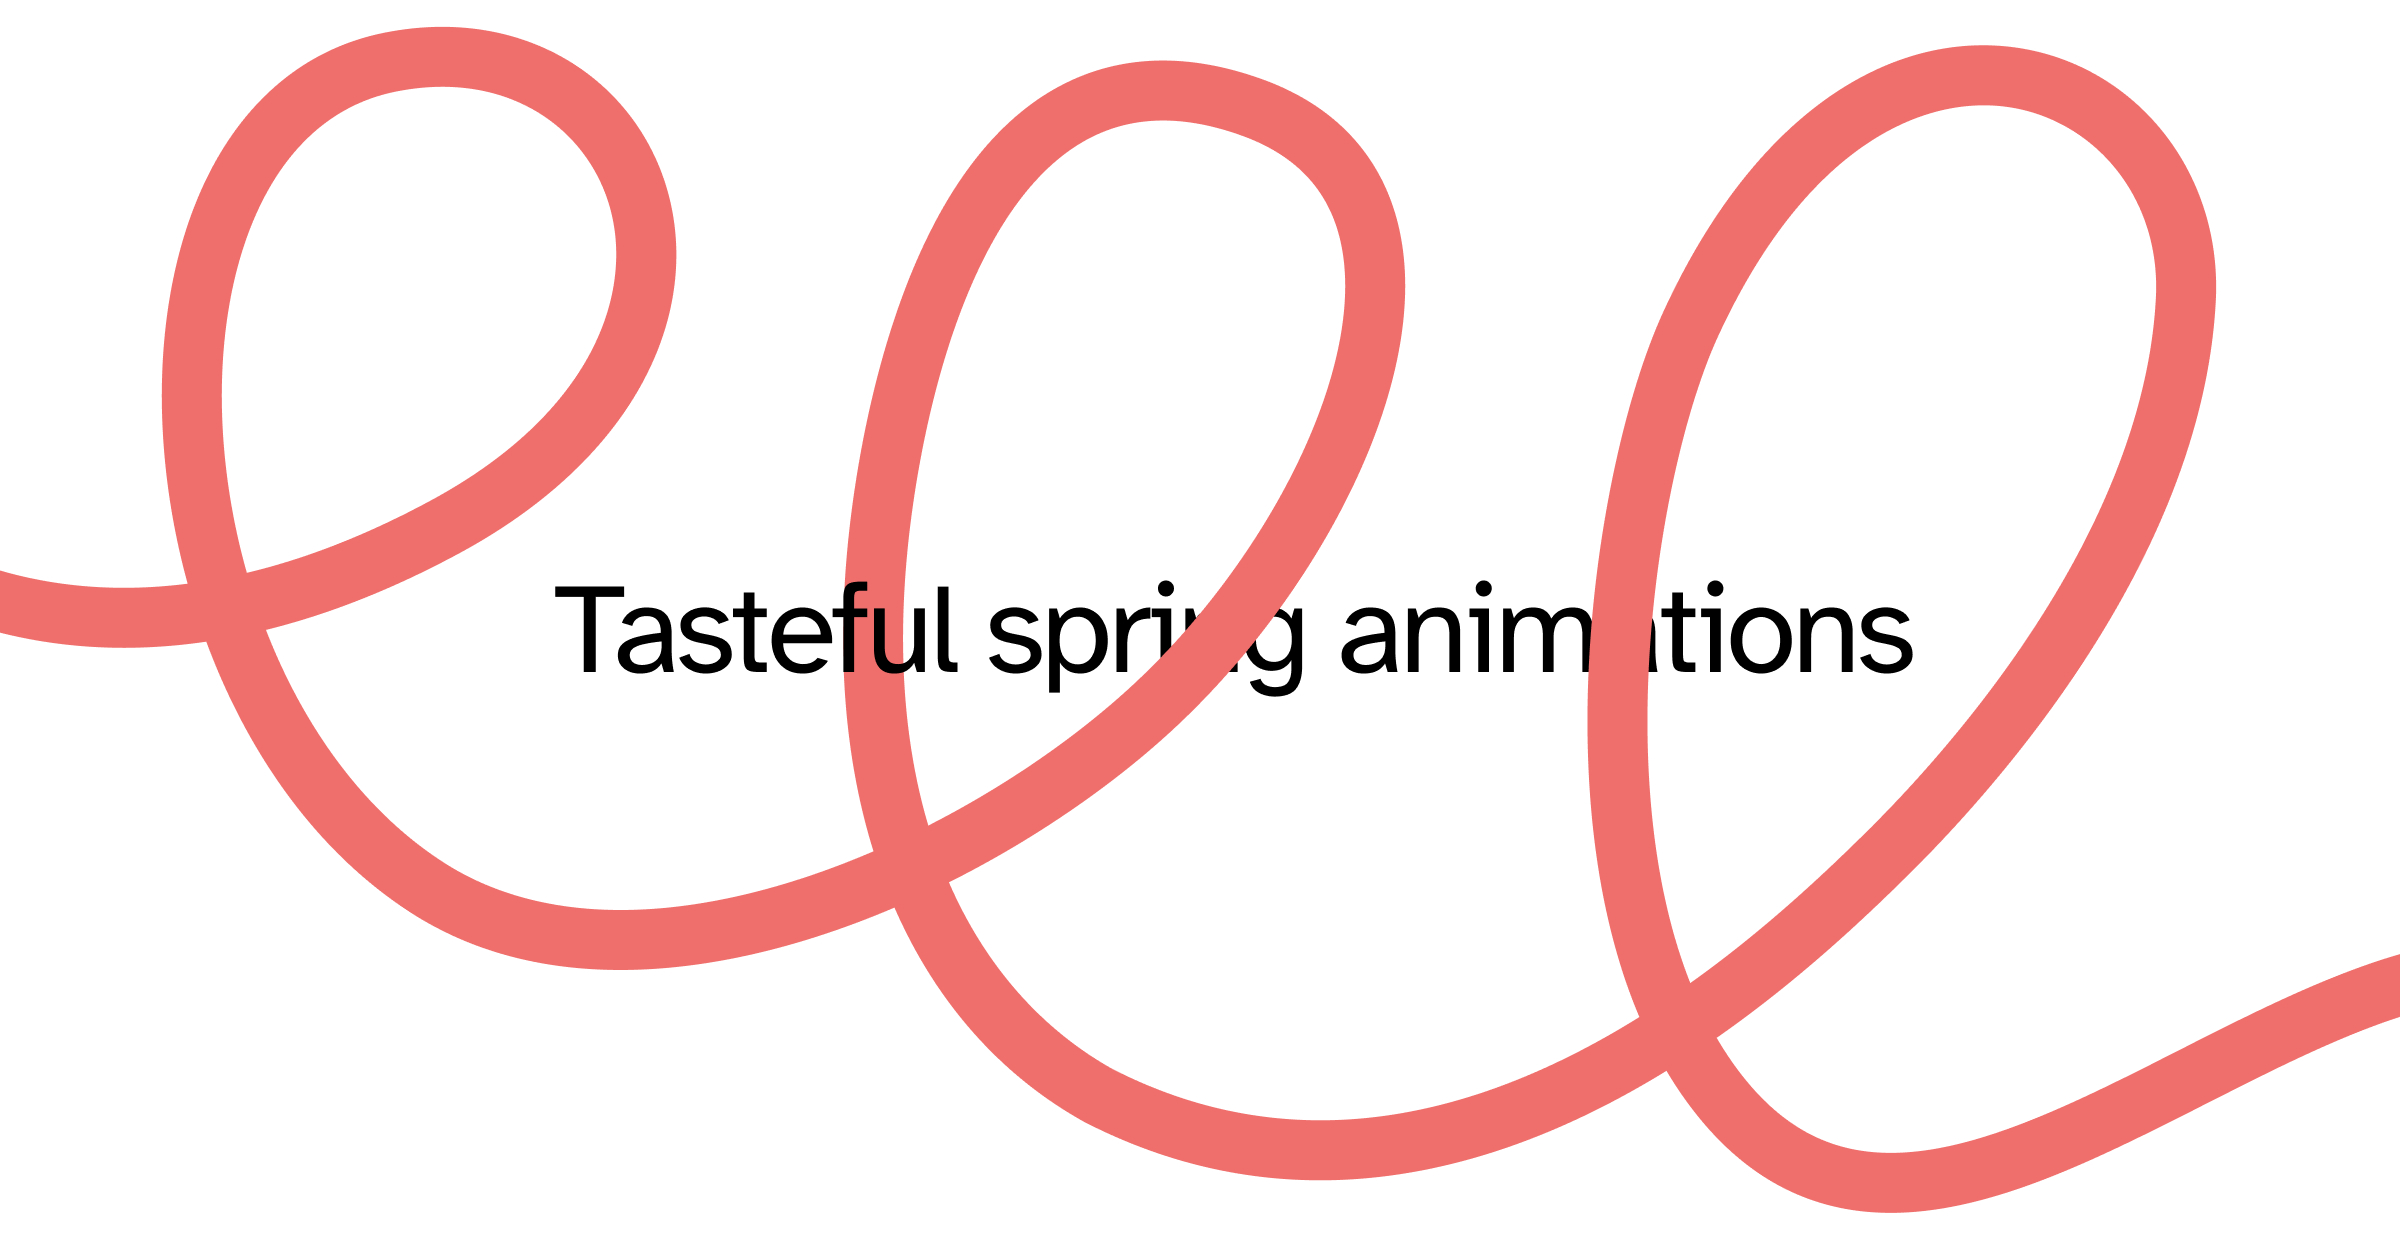
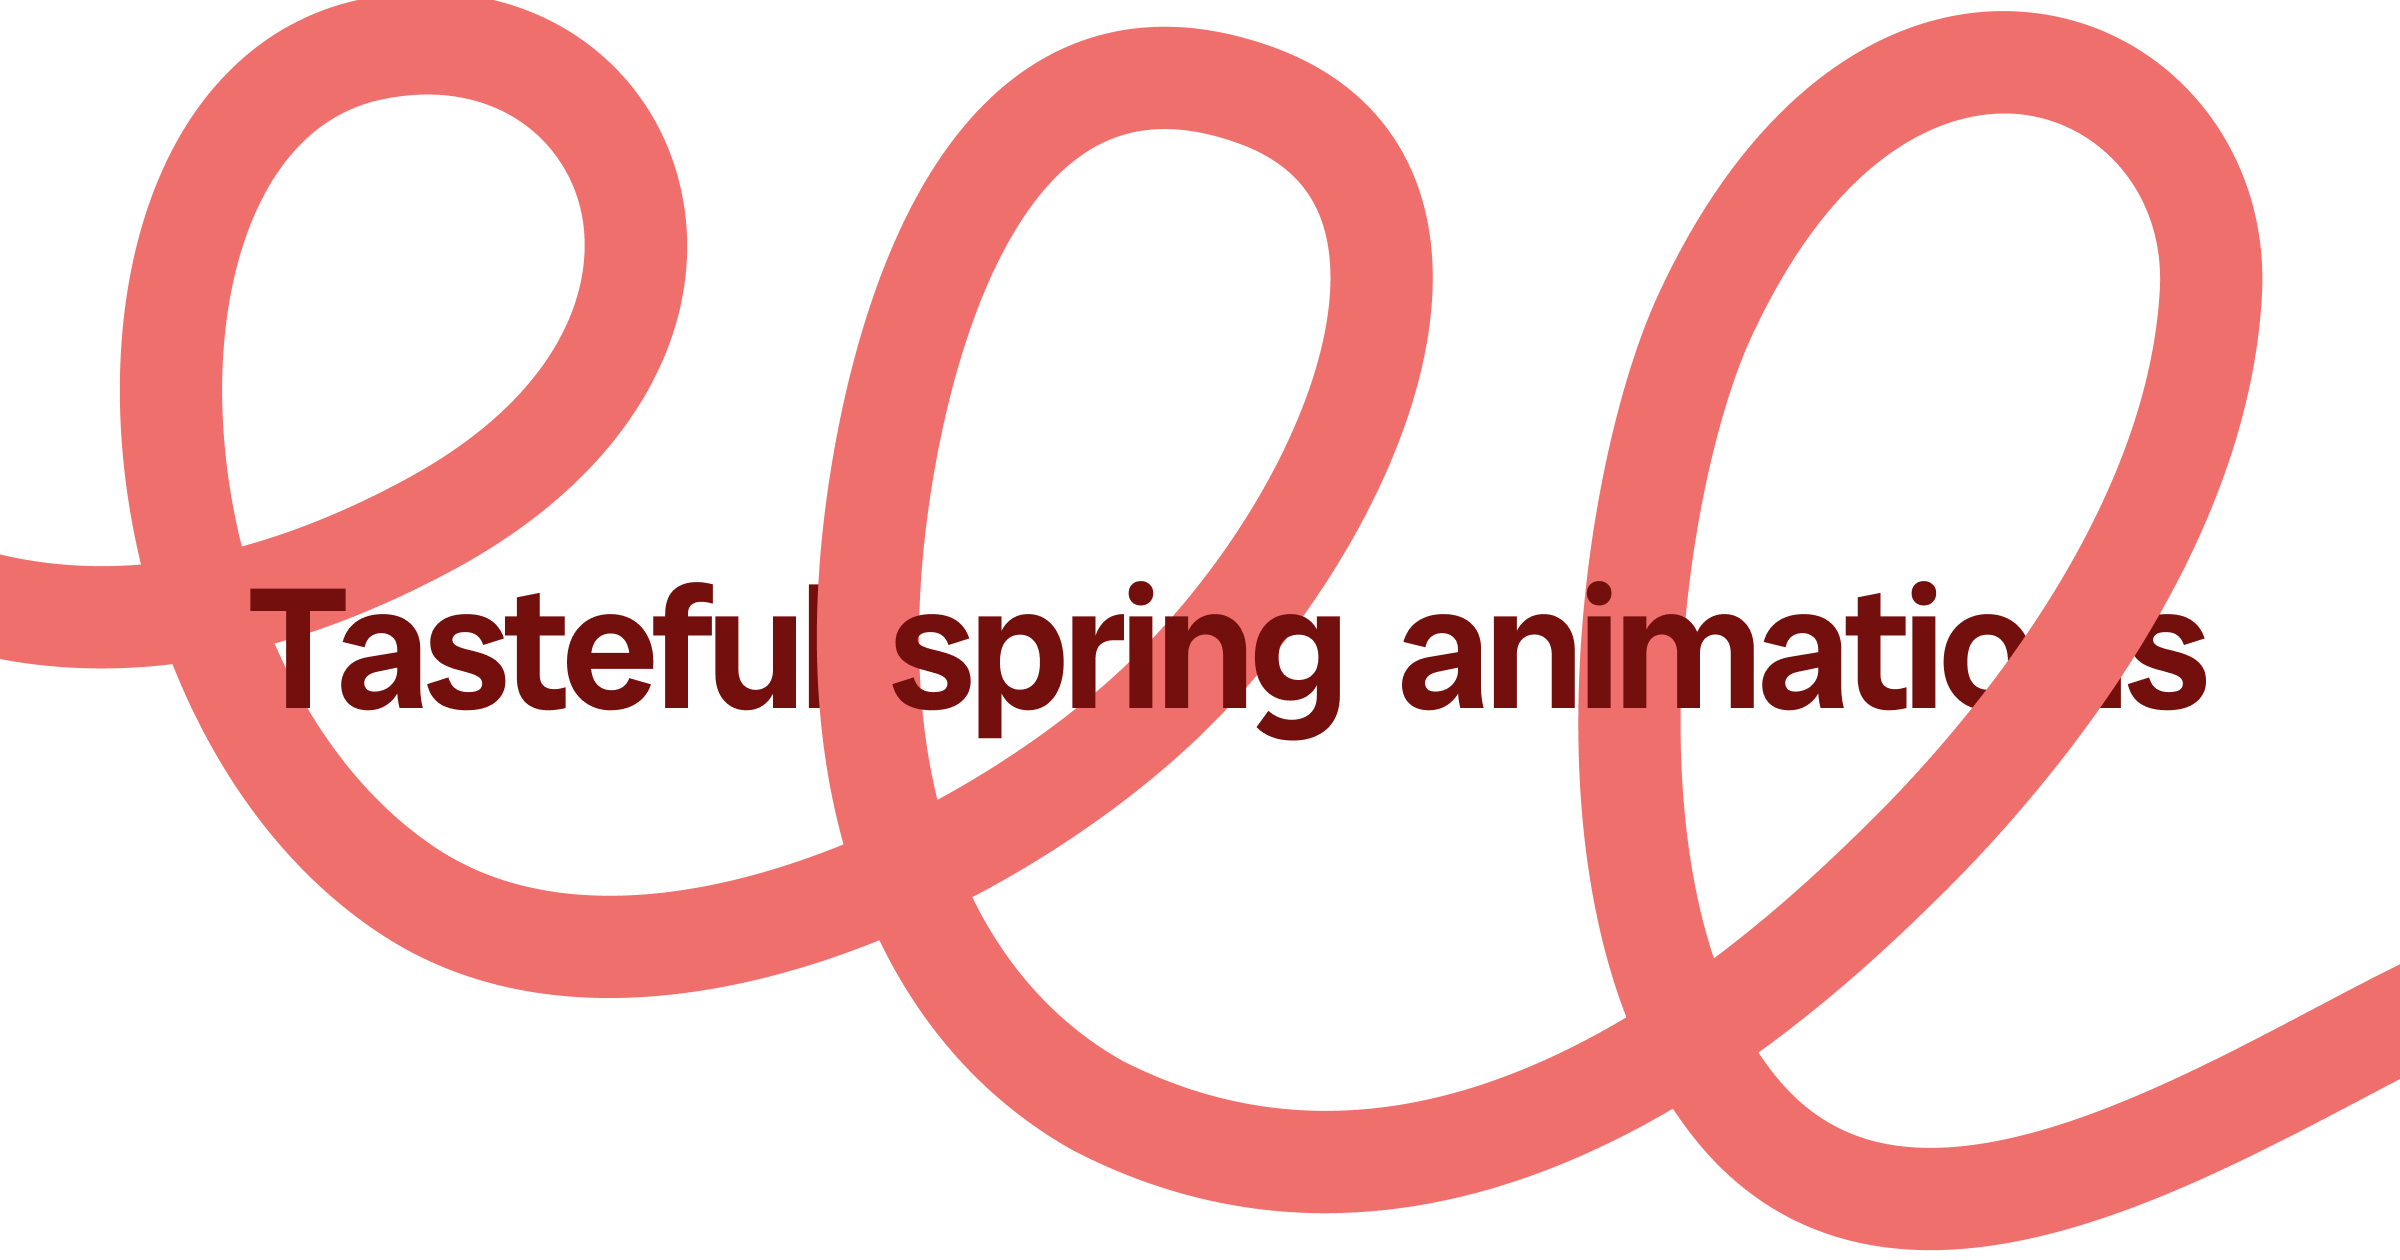
better layout animation + new og image

diff --git a/src/components/PresetsList.jsx b/src/components/PresetsList.jsx
@@ -42,25 +42,24 @@ const PresetsList = ({
     >
       {presets.map((preset) => (
         <motion.div
-          key={preset.id}
-          className="relative col-span-4 cursor-pointer overflow-hidden rounded-2xl bg-white p-0 select-none"
+          className="col-span-4 cursor-pointer overflow-hidden rounded-2xl bg-transparent p-0 select-none"
           onPointerEnter={() => handleHoveredAnimation(preset.name)}
           onPointerLeave={() => setHovered("")}
           onClick={() => handlePresetClick(preset.name)}
           layoutId={preset.name}
-          layout
           transition={{
             type: "spring",
-            mass: 0.75,
-            stiffness: 200,
-            damping: 20,
+            mass: 1,
+            stiffness: 590,
+            damping: 53,
           }}
         >
           <motion.div
-            className="flex h-80 items-center justify-center rounded-2xl bg-neutral-50"
+            className="relative flex h-80 items-center justify-center rounded-2xl bg-neutral-50"
             variants={presetItemsAnimation}
-            whileHover={{ scale: 1.02 }}
             whileTap={{ scale: 0.98 }}
+            layoutId={`${preset.name}-neutral-bg`}
+            layout="preserve-aspect"
           >
             <motion.div
               className="animate-move relative h-[1px] w-[65%]"
@@ -108,76 +107,69 @@ const PresetsList = ({
                 }
               ></motion.div>
             </motion.div>
-            {hovered.name === preset.name && (
-              <>
-                <motion.div
-                  className="absolute right-12 bottom-0 left-0 flex w-full items-end justify-between p-6"
-                  initial={{ opacity: 0.5, scale: 0.99 }}
-                  animate={{ opacity: 1, scale: 1 }}
-                  transition={{
-                    type: "tween",
-                    ease: "easeOut",
-                    duration: 0.1,
-                  }}
-                >
-                  <span className="text-primary/50 font-sans text-sm font-medium">
-                    {preset.name}
-                  </span>
-                  <div className="flex flex-col">
-                    {preset.config?.mass && (
-                      <div className="flex gap-1">
-                        <span className="text-primary/50 w-[18px] font-sans text-sm font-medium">
-                          M:
-                        </span>
-                        <span className="text-primary/50 font-sans text-sm font-bold">
-                          {preset.config?.mass}
-                        </span>
-                      </div>
-                    )}
-                    {preset.config?.stiffness && (
-                      <div className="flex gap-1">
-                        <span className="text-primary/50 w-[18px] font-sans text-sm font-medium">
-                          S:
-                        </span>
-                        <span className="text-primary/50 font-sans text-sm font-bold">
-                          {preset.config?.stiffness}
-                        </span>
-                      </div>
-                    )}
-                    {preset.config?.damping && (
-                      <div className="flex gap-1">
-                        <span className="text-primary/50 w-[18px] font-sans text-sm font-medium">
-                          D:
-                        </span>
-                        <span className="text-primary/50 font-sans text-sm font-bold">
-                          {preset.config?.damping}
-                        </span>
-                      </div>
-                    )}
-                    {preset.config?.bounce && (
-                      <div className="flex gap-1">
-                        <span className="text-primary/50 font-sans text-sm font-medium">
-                          B:
-                        </span>
-                        <span className="text-primary/50 font-sans text-sm font-bold">
-                          {preset.config?.bounce}
-                        </span>
-                      </div>
-                    )}
-                    {preset.config?.duration && (
-                      <div className="flex gap-1">
-                        <span className="text-primary/50 font-sans text-sm font-medium">
-                          D:
-                        </span>
-                        <span className="text-primary/50 font-sans text-sm font-bold">
-                          {preset.config?.duration}
-                        </span>
-                      </div>
-                    )}
-                  </div>
-                </motion.div>
-              </>
-            )}
+            <motion.div
+              className="absolute right-0 bottom-0 left-0 flex h-12 items-end justify-between p-4 py-6 lg:p-8" // Giving it a height stops it from shifting around when hovered
+              layoutId={`${preset.name}-deets`}
+              layout="preserve-aspect"
+            >
+              <span className="text-primary/50 font-sans text-sm font-medium">
+                {preset.name}
+              </span>
+              {hovered.name === preset.name && (
+                <div className="flex flex-col">
+                  {preset.config?.mass && (
+                    <div className="flex gap-1">
+                      <span className="text-primary/50 w-[18px] font-sans text-sm font-medium">
+                        M:
+                      </span>
+                      <span className="text-primary/50 font-sans text-sm font-bold">
+                        {preset.config?.mass}
+                      </span>
+                    </div>
+                  )}
+                  {preset.config?.stiffness && (
+                    <div className="flex gap-1">
+                      <span className="text-primary/50 w-[18px] font-sans text-sm font-medium">
+                        S:
+                      </span>
+                      <span className="text-primary/50 font-sans text-sm font-bold">
+                        {preset.config?.stiffness}
+                      </span>
+                    </div>
+                  )}
+                  {preset.config?.damping && (
+                    <div className="flex gap-1">
+                      <span className="text-primary/50 w-[18px] font-sans text-sm font-medium">
+                        D:
+                      </span>
+                      <span className="text-primary/50 font-sans text-sm font-bold">
+                        {preset.config?.damping}
+                      </span>
+                    </div>
+                  )}
+                  {preset.config?.bounce && (
+                    <div className="flex gap-1">
+                      <span className="text-primary/50 font-sans text-sm font-medium">
+                        B:
+                      </span>
+                      <span className="text-primary/50 font-sans text-sm font-bold">
+                        {preset.config?.bounce}
+                      </span>
+                    </div>
+                  )}
+                  {preset.config?.duration && (
+                    <div className="flex gap-1">
+                      <span className="text-primary/50 font-sans text-sm font-medium">
+                        D:
+                      </span>
+                      <span className="text-primary/50 font-sans text-sm font-bold">
+                        {preset.config?.duration}
+                      </span>
+                    </div>
+                  )}
+                </div>
+              )}
+            </motion.div>
           </motion.div>
         </motion.div>
       ))}

diff --git a/src/components/PresetModal.jsx b/src/components/PresetModal.jsx
@@ -44,14 +44,23 @@ const PresetModal = ({
             <motion.div
               className="grid grid-cols-4 gap-0 overflow-hidden rounded-3xl bg-white p-4 @md/Choose:grid-cols-8 @lg/Choose:grid-cols-8 @4xl/Choose:grid-cols-12"
               layoutId={selectedPreset.name}
-              layout
               transition={{
                 type: "spring",
-                bounce: 0.1,
-                duration: 0.44,
+                mass: 1,
+                stiffness: 590,
+                damping: 53,
               }}
+              /* transition={{
+                type: "spring",
+                bounce: 0.1,
+                duration: 5,
+              }} */
             >
-              <motion.div className="relative col-span-4 flex h-[250px] items-center justify-center overflow-hidden rounded-2xl bg-neutral-50 select-none @md/Choose:col-span-8 @lg/Choose:col-span-4 @lg/Choose:h-full @4xl/Choose:col-span-5">
+              <motion.div
+                className="relative z-10 col-span-4 flex h-80 items-center justify-center overflow-hidden rounded-2xl bg-neutral-50 select-none @md/Choose:col-span-8 @lg/Choose:col-span-4 @lg/Choose:h-full @4xl/Choose:col-span-5"
+                layoutId={`${selectedPreset.name}-neutral-bg`}
+                layout="preserve-aspect"
+              >
                 <motion.div
                   className="animate-move relative h-[1px] w-[65%]"
                   style={{
@@ -93,16 +102,11 @@ const PresetModal = ({
                 </motion.div>
 
                 <motion.div
-                  className="absolute right-12 bottom-0 left-0 flex w-full items-end justify-between p-4 py-6 lg:p-8"
-                  initial={{ opacity: 0.5, scale: 0.99 }}
-                  animate={{ opacity: 1, scale: 1 }}
-                  transition={{
-                    type: "tween",
-                    ease: "easeOut",
-                    duration: 0.1,
-                  }}
+                  className="absolute right-0 bottom-0 left-0 flex h-12 items-end justify-between p-4 py-6 lg:p-8"
+                  layoutId={`${selectedPreset.name}-deets`}
+                  layout="preserve-aspect"
                 >
-                  <span className="text-primary/50 font-sans text-sm font-medium">
+                  <span className="text-primary/50 /bg-purple-500 font-sans text-sm font-medium">
                     {selectedPreset.name}
                   </span>
                   <div className="flex flex-col">
@@ -164,29 +168,29 @@ const PresetModal = ({
                 className="col-span-4 flex flex-col gap-4 pb-8 @md/Choose:col-span-8 @lg/Choose:col-span-4 @4xl/Choose:col-span-7"
                 initial={{
                   opacity: 0,
-
-                  x: isTabletAndAbove ? 50 : 0,
-                  y: isTabletAndAbove ? 0 : 50,
+                  x: isTabletAndAbove ? 10 : 0,
+                  y: isTabletAndAbove ? 0 : 10,
                 }}
                 animate={{
                   opacity: 1,
                   x: 0,
                   y: 0,
                   transition: {
-                    duration: 0.32,
+                    duration: 0.12,
                   },
                 }}
                 exit={{
                   opacity: 0,
 
-                  x: isTabletAndAbove ? 50 : 0,
-                  y: isTabletAndAbove ? 0 : 50,
+                  x: isTabletAndAbove ? 10 : 0,
+                  y: isTabletAndAbove ? 0 : 10,
                   transition: {
                     delay: 0,
                     duration: 0.1,
                   },
                 }}
                 transition={{ duration: 0.175, delay: 0.1 }}
+                layout="size"
               >
                 <div className="flex h-full flex-col">
                   <div className="text-primary relative rounded-t-none rounded-b-2xl px-0 pt-8 pb-4 md:px-8 md:pt-4 md:pb-4">

diff --git a/src/app/page.jsx b/src/app/page.jsx
@@ -10,7 +10,7 @@ export default function Home() {
       <Head>
         <link rel="canonical" href={canonicalUrl} />
       </Head>
-      <LandingClient />;
+      <LandingClient />
     </>
   );
 }
